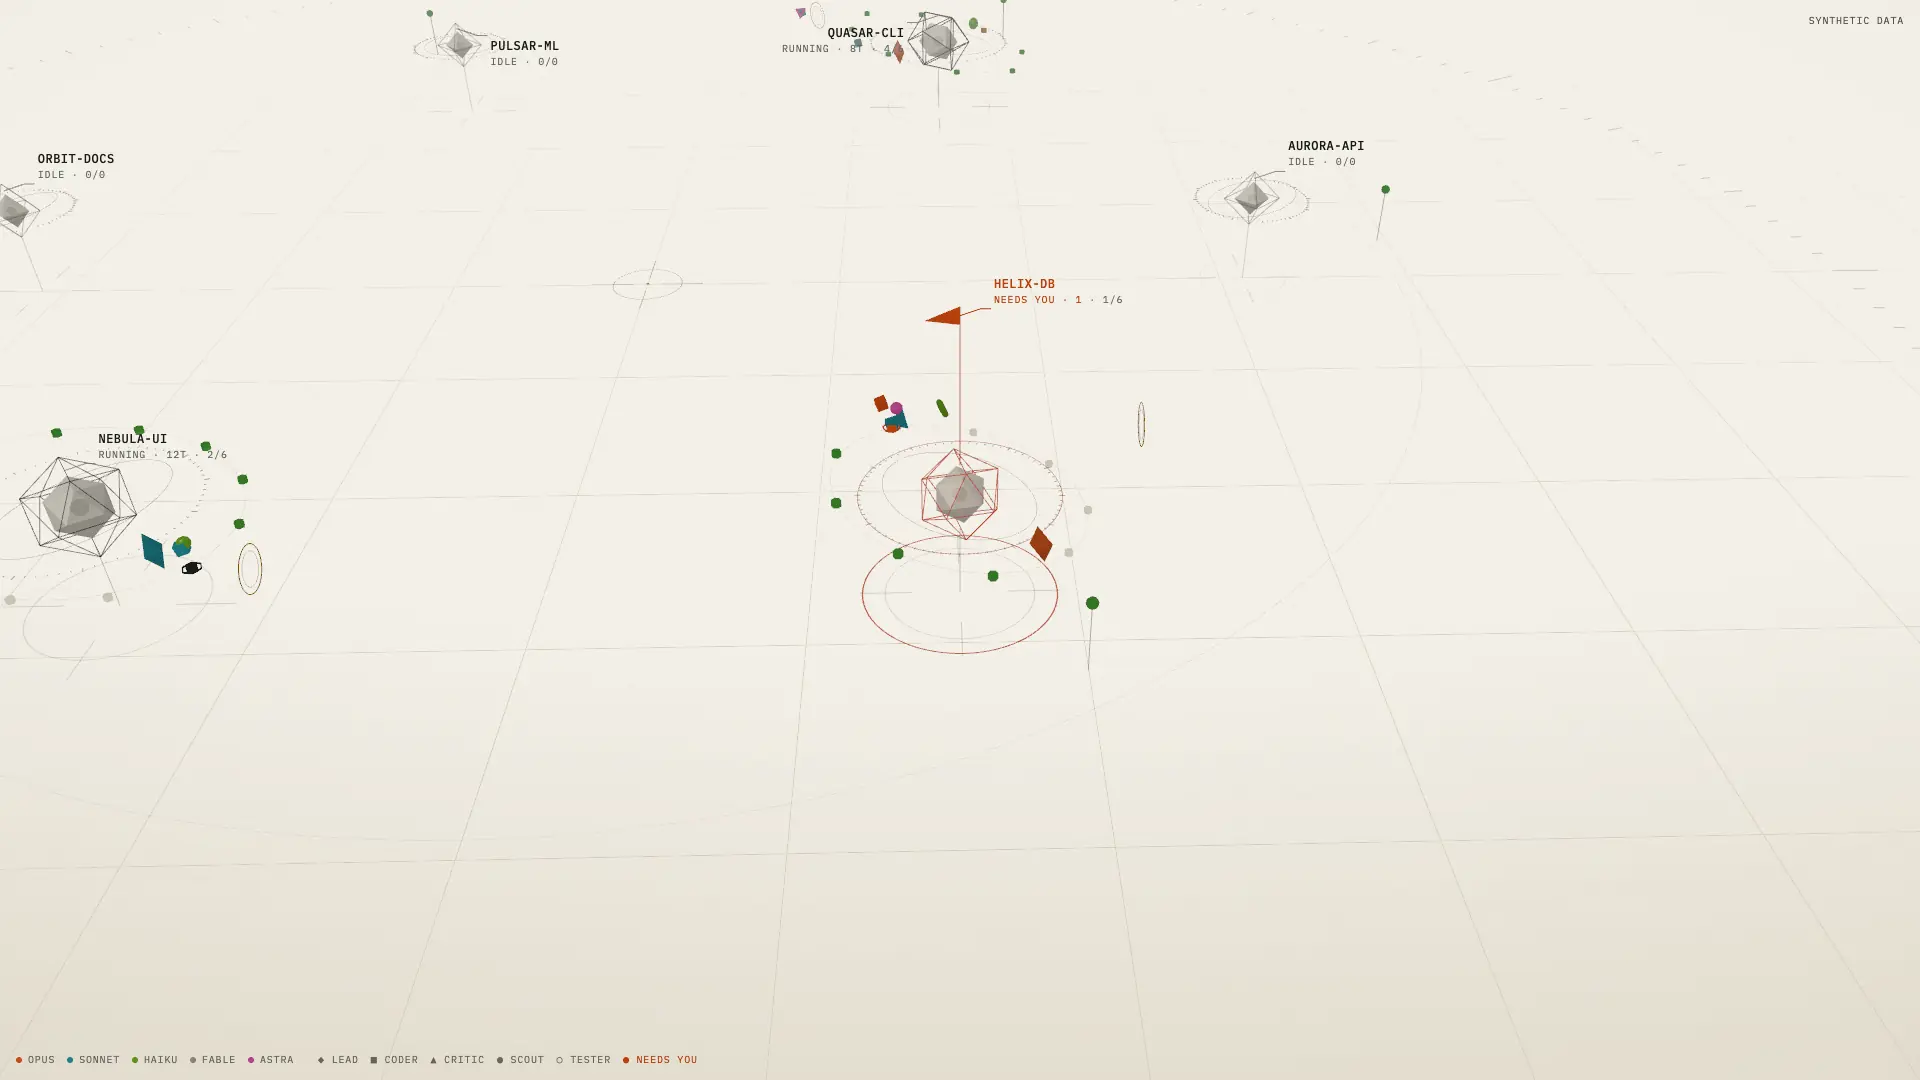
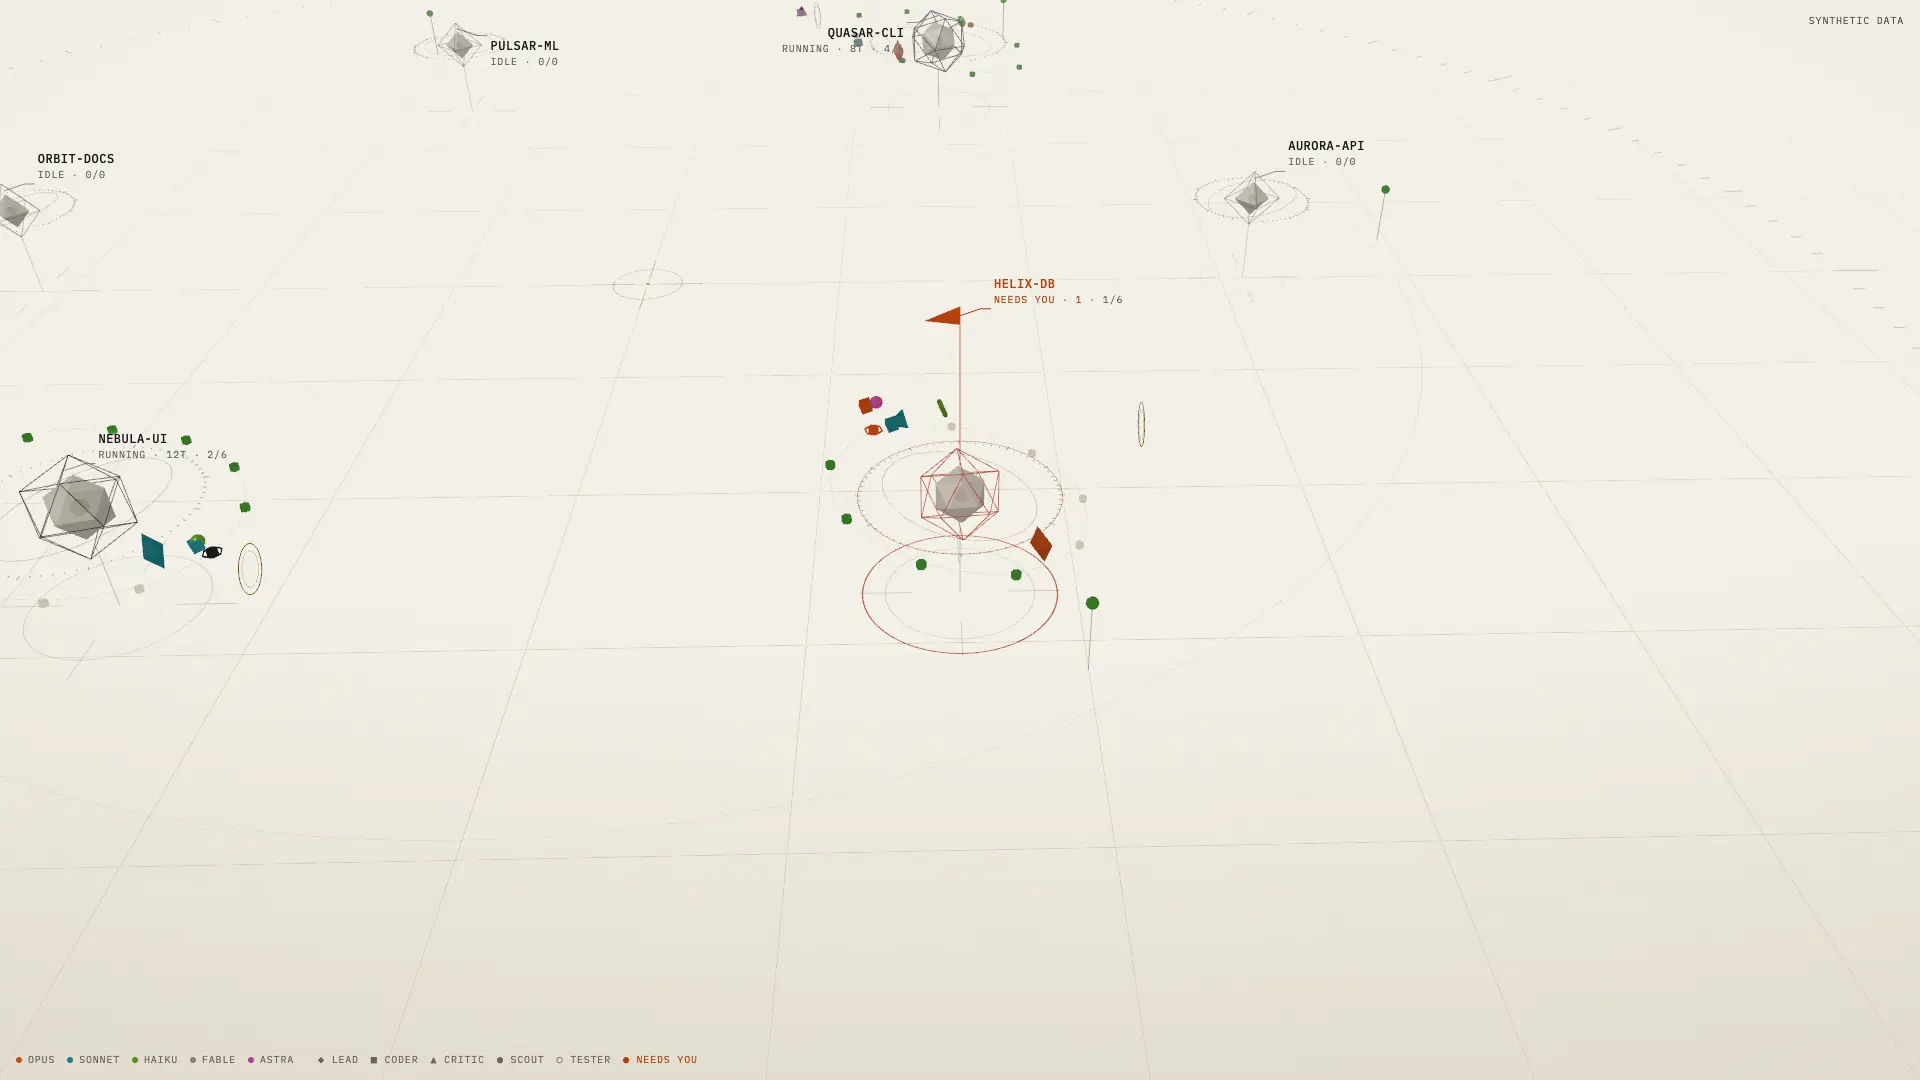
perf(site): start Next runtime after first paint (LCP 2.2s, perf 99); seated flare, legible phone label, zone-correct digest date

diff --git a/apps/site/components/FleetStage.tsx b/apps/site/components/FleetStage.tsx
@@ -106,20 +106,28 @@ function afterLcp(cb: () => void): () => void {
   };
 }
 
-/** Poster anchors as CSS custom properties: the stylesheet picks the pair for the poster on screen. */
+/** Poster anchors (the waiting vessel) as CSS custom properties: the stylesheet picks the pair for the poster on screen. */
 const ANCHOR_VARS = Object.fromEntries(
   Object.entries(anchors).flatMap(([k, a]) => [
     [`--fx-${k}`, String(a.x)],
     [`--fy-${k}`, String(a.y)],
   ]),
 ) as React.CSSProperties;
+/** What the waiting station's tag reads in every poster (scripts/assets.mjs checks they agree). */
+const POSTER_TAG = anchors['dark-m'];
 
 /**
- * Follows the live scene's waiting station: its tag anchor (the signal pennant), measured each frame in the
- * stage's own, untransformed coordinates and handed to the stylesheet, which frames it and raises the beacon.
- * No waiting station on screen: data-signal="none" (beacon down, frame eases back to the whole harbour).
+ * Follows the live scene's waiting station: its vessel (the island's host data-vessel-x/y), measured each frame in
+ * the stage's own, untransformed coordinates and handed to the stylesheet, which seats the beacon there, and its
+ * tag's two lines, copied into the phone label (the scene's own tag is hidden there).
+ * No waiting station on screen: data-signal="none" (beacon and label down).
  */
-function trackSignal(stage: HTMLElement, frame: HTMLElement, host: HTMLElement): () => void {
+function trackSignal(
+  stage: HTMLElement,
+  frame: HTMLElement,
+  host: HTMLElement,
+  label: { name: HTMLElement; status: HTMLElement },
+): () => void {
   let raf = 0;
   let visible = true;
   let last = '';
@@ -138,13 +146,26 @@ function trackSignal(stage: HTMLElement, frame: HTMLElement, host: HTMLElement):
       marked && marked.style.visibility !== 'hidden' && marked.style.display !== 'none' ? marked : null;
     const sr = stage.getBoundingClientRect();
     const fr = frame.getBoundingClientRect();
-    if (tag && sr.width > 0 && fr.width > 0) {
+    const vx = Number(host.dataset.vesselX);
+    const vy = Number(host.dataset.vesselY);
+    if (
+      tag &&
+      host.dataset.vesselX &&
+      Number.isFinite(vx) &&
+      Number.isFinite(vy) &&
+      sr.width > 0 &&
+      fr.width > 0
+    ) {
+      // the canvas fills the frame; the frame's own scale (if any) is undone so the beacon lives in stage pixels
       const z = fr.width / sr.width;
-      const r = tag.getBoundingClientRect();
-      const x = (r.left - fr.left) / z;
-      const y = (r.bottom - fr.top) / z;
+      const x = (vx * fr.width) / z;
+      const y = (vy * fr.height) / z;
       stage.style.setProperty('--live-ax', `${x.toFixed(1)}px`);
       stage.style.setProperty('--live-ay', `${y.toFixed(1)}px`);
+      const name = tag.querySelector('.fl-viz-name')?.textContent?.trim();
+      const status = tag.querySelector('.fl-viz-sub')?.firstChild?.textContent?.trim();
+      if (name && label.name.textContent !== name) label.name.textContent = name;
+      if (status && label.status.textContent !== status) label.status.textContent = status;
       if (last !== 'live') stage.dataset.signal = last = 'live';
     } else if (last !== 'none') stage.dataset.signal = last = 'none';
     raf = requestAnimationFrame(step);
@@ -177,6 +198,8 @@ export function FleetStage({
   const host = useRef<HTMLDivElement>(null);
   const stage = useRef<HTMLDivElement>(null);
   const frame = useRef<HTMLDivElement>(null);
+  const tagName = useRef<HTMLSpanElement>(null);
+  const tagStatus = useRef<HTMLSpanElement>(null);
   const [ready, setReady] = useState(false);
   const [why, setWhy] = useState<Why>('pending');
   const forced = useForcedTheme();
@@ -185,11 +208,16 @@ export function FleetStage({
     const st = stage.current;
     const fr = frame.current;
     const el = host.current;
-    if (!signal || !ready || !st || !fr || !el) return;
-    const stop = trackSignal(st, fr, el);
+    const name = tagName.current;
+    const status = tagStatus.current;
+    if (!signal || !ready || !st || !fr || !el || !name || !status) return;
+    const stop = trackSignal(st, fr, el, { name, status });
     return () => {
       stop();
       st.dataset.signal = 'poster';
+      // back on the poster: its label reads what the poster shows
+      name.textContent = POSTER_TAG.name;
+      status.textContent = POSTER_TAG.status;
     };
   }, [signal, ready]);
 
@@ -291,6 +319,16 @@ export function FleetStage({
             <span className="beacon-ring" />
             <span className="beacon-ring beacon-ring-2" />
             <span className="beacon-core" />
+            {/* Phones: the waiting station's label, beside the vessel on a halo of the page ground. The scene's own
+                tag for it sits centred over the vessel at that size, so the stylesheet hides it there. */}
+            <span className="beacon-tag">
+              <span ref={tagName} className="beacon-tag-name">
+                {POSTER_TAG.name}
+              </span>
+              <span ref={tagStatus} className="beacon-tag-status">
+                {POSTER_TAG.status}
+              </span>
+            </span>
           </span>
         ) : null}
       </div>

diff --git a/apps/site/app/globals.css b/apps/site/app/globals.css
@@ -2409,7 +2409,7 @@ main {
   position: absolute;
   inset: 0;
 }
-/* Where the waiting station's signal sits, in stage pixels. Poster state: the anchor recorded by
+/* Where the waiting station's vessel sits, in stage pixels. Poster state: the anchor recorded by
    scripts/assets.mjs (fractions of the still) mapped through object-fit: cover. Live: measured each frame.
    The camera itself frames the station (island `frame`), so the stage is never zoomed or panned in CSS: a CSS
    scale would also skew the scene's own label projection, which measures the scaled box. */
@@ -2467,7 +2467,7 @@ main {
 .stage[data-signal='none'] .beacon {
   opacity: 0;
 }
-/* A light column from the signal to the sky, a soft halo, and rings on the harbour plane. The column stops
+/* A light column from the vessel to the sky, a soft halo, and rings seated under the hull. The column stops
    --beam-clear short of the stage top, so it never runs into the header rule or the scene's corner tag. */
 .beacon-beam {
   --beam-clear: 80px;
@@ -2500,11 +2500,11 @@ main {
     transparent
   );
 }
-/* Rings sit just below the signal anchor, clear of the tag text that rises up and out from it. */
+/* Rings sit on the vessel: centred just under the hull, flat like the harbour plane it rides on. */
 .beacon-ring {
   position: absolute;
   left: -60px;
-  top: -6px;
+  top: 0;
   width: 120px;
   height: 40px;
   border: 1.5px solid var(--fl-accent);
@@ -2514,22 +2514,49 @@ main {
 .beacon-ring-2 {
   opacity: 0;
 }
+/* The phone label (FleetStage): beside the vessel, on the left, right-aligned against the ring. Wider screens
+   keep the scene's own tag, which has room to the right of the mast. */
+.beacon-tag {
+  display: none;
+}
 @media (max-width: 720px) {
   .beacon-beam {
     --beam-clear: 40px;
   }
   .beacon-ring {
     left: -44px;
-    top: -4px;
+    top: 0;
     width: 88px;
     height: 30px;
   }
-}
-/* Phones set the waiting tag centred under its anchor (FleetScene): no ring there would clear the text, and the
-   scene already draws the station's own signal floor, so the beam and its core carry the signal alone. */
-@media (max-width: 560px) {
-  .beacon-ring {
-    display: none;
+  .stage[data-signal] .fl-viz-tag[data-signal='1'] {
+    opacity: 0 !important;
+  }
+  .beacon-tag {
+    --tag-gap: 52px;
+    position: absolute;
+    right: var(--tag-gap);
+    top: 0;
+    display: grid;
+    justify-items: end;
+    gap: 2px;
+    max-width: max(0px, calc(var(--ax) - var(--tag-gap) - var(--fl-space-4)));
+    padding: var(--fl-space-2) var(--fl-space-3);
+    transform: translateY(-50%);
+    border-radius: var(--fl-radius-md);
+    background: color-mix(in srgb, var(--fl-bg) 82%, transparent);
+    box-shadow: 0 0 18px 10px color-mix(in srgb, var(--fl-bg) 82%, transparent);
+    font-family: var(--fl-font-mono);
+    font-size: 14px;
+    line-height: 1.25;
+    letter-spacing: 0.04em;
+    text-transform: uppercase;
+    text-align: right;
+    color: var(--fl-accent);
+    white-space: nowrap;
+  }
+  .beacon-tag-name {
+    font-weight: 600;
   }
 }
 @media (prefers-reduced-motion: no-preference) {

diff --git a/apps/site/island/entry.tsx b/apps/site/island/entry.tsx
@@ -114,7 +114,7 @@ const FRAME_DIST = 0.74;
  * live camera always use the same framing. */
 const NARROW_MAX_PX = 720;
 const FRAME_DIST_NARROW = 0.5;
-const LOOK_Y_NARROW = -0.6;
+const LOOK_Y_NARROW = 0.2;
 
 /** The station FleetScene marks "needs you" (blocked tasks + waiting agents), most first; null when none. */
 function waitingStation(snap: FleetSnapshot): { index: number; count: number } | null {
@@ -132,6 +132,24 @@ function waitingStation(snap: FleetSnapshot): { index: number; count: number } |
 }
 
 /**
+ * Where the waiting station's vessel sits, as fractions of the canvas (host data-vessel-x / data-vessel-y), so the
+ * beacon (FleetStage) and the poster anchors (scripts/assets.mjs) seat the flare on the vessel itself, not on its
+ * tag. Cleared when nothing is waiting. Written only on change: it is read every frame.
+ */
+function publishVessel(host: HTMLElement, ndc: THREE.Vector3 | null): void {
+  const d = host.dataset;
+  if (!ndc) {
+    delete d.vesselX;
+    delete d.vesselY;
+    return;
+  }
+  const x = (ndc.x * 0.5 + 0.5).toFixed(4);
+  const y = (0.5 - ndc.y * 0.5).toFixed(4);
+  if (d.vesselX !== x) d.vesselX = x;
+  if (d.vesselY !== y) d.vesselY = y;
+}
+
+/**
  * The one "which station is the signal" rule for the hero: the camera aims at waitingStation(), and this marks that
  * station's tag data-signal="1" so the beacon (FleetStage) and the poster anchors (scripts/assets.mjs) follow the
  * same station. Tags carry no project id, so the marked tag is the needs-you tag whose anchor (the 0x0 tag root sits
@@ -139,6 +157,7 @@ function waitingStation(snap: FleetSnapshot): { index: number; count: number } |
  * far apart on screen. `ndc` is the projected station (null: nothing waiting, no tag marked).
  */
 function markSignalTag(host: HTMLElement, ndc: THREE.Vector3 | null, canvas: HTMLCanvasElement): void {
+  publishVessel(host, ndc);
   const tags = host.querySelectorAll<HTMLElement>('.fl-viz-tag[data-needs="1"], .fl-viz-tag[data-signal]');
   let pick: HTMLElement | null = null;
   if (ndc && tags.length) {

diff --git a/apps/site/components/LocalTime.tsx b/apps/site/components/LocalTime.tsx
@@ -79,6 +79,28 @@ export function LocalizeTimes({
         const zones = [...new Set([zoneName(since), zoneName(until)])].join(' → ');
         line.textContent = `${formatAt(since, 'day-time')} → ${formatAt(until, 'day-time')} (${zones})`;
       }
+      // The masthead names the morning the window ends on (packages/digest dateKey), so it follows the zone too:
+      // a window ending 07:48 in Tokyo is Thursday's edition there.
+      const title = root.querySelector<HTMLTimeElement>('time.ovn-date-time');
+      if (title && Number.isFinite(until)) {
+        const parts = new Intl.DateTimeFormat('en-GB', {
+          weekday: 'long',
+          day: 'numeric',
+          month: 'long',
+          year: 'numeric',
+        }).formatToParts(until);
+        const part = (type: Intl.DateTimeFormatPartTypes) => parts.find((p) => p.type === type)?.value ?? '';
+        const day = new Intl.DateTimeFormat('en-CA', {
+          year: 'numeric',
+          month: '2-digit',
+          day: '2-digit',
+        }).format(until);
+        const weekday = document.createElement('em');
+        weekday.className = 'ovn-weekday';
+        weekday.textContent = `${part('weekday')},`;
+        title.dateTime = day;
+        title.replaceChildren(weekday, ` ${part('day')} ${part('month')} ${part('year')}`);
+      }
     }
   }, [win]);
   return (
